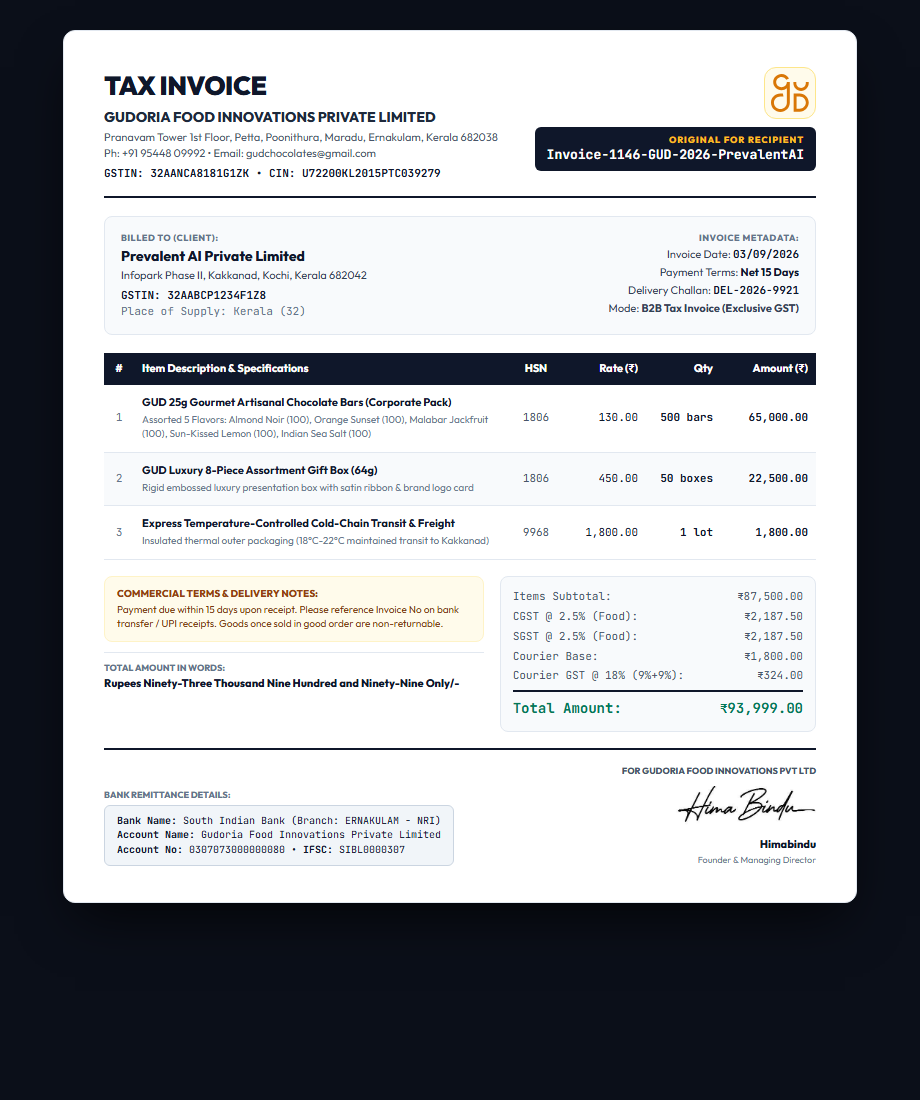
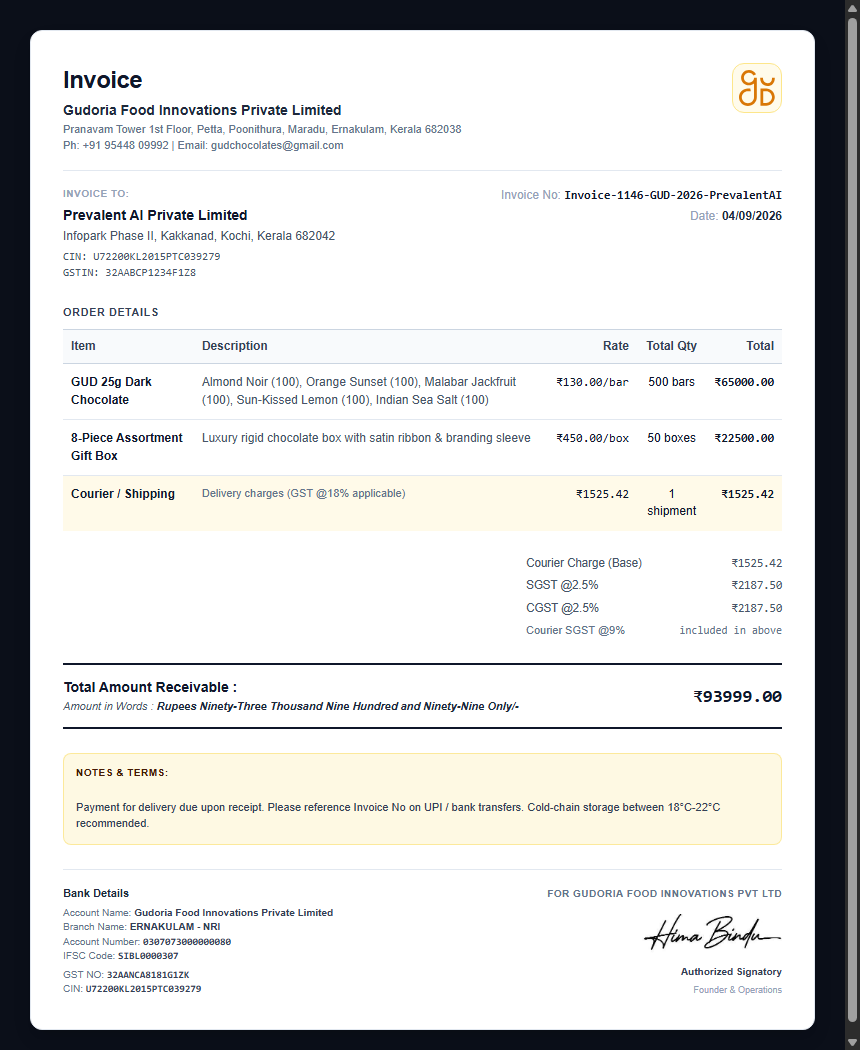
fix: update output_invoice_document to match exact ERP InvoiceGenerator layout

diff --git a/public/screenshots/output_invoice_document.html b/public/screenshots/output_invoice_document.html
@@ -2,10 +2,10 @@
 <html>
 <head>
   <meta charset="utf-8">
-  <title>Tax Invoice Output Document</title>
+  <title>Invoice - Gudoria Food Innovations</title>
   <link rel="preconnect" href="https://fonts.googleapis.com">
   <link rel="preconnect" href="https://fonts.gstatic.com" crossorigin>
-  <link href="https://fonts.googleapis.com/css2?family=Outfit:wght@300;400;500;600;700;800;900&family=JetBrains+Mono:wght@400;600;700&display=swap" rel="stylesheet">
+  <link href="https://fonts.googleapis.com/css2?family=Outfit:wght@300;400;500;600;700;800;900&family=JetBrains+Mono:wght@400;500;600;700&display=swap" rel="stylesheet">
   <style>
     * { box-sizing: border-box; margin: 0; padding: 0; }
     body {
@@ -17,178 +17,158 @@
       align-items: flex-start;
       -webkit-font-smoothing: antialiased;
     }
-    .a4-sheet {
+    .invoice-card {
       width: 794px;
       background: #ffffff;
       color: #0f172a;
-      padding: 36px 40px;
+      padding: 32px;
       border-radius: 12px;
-      box-shadow: 0 25px 50px -12px rgba(0, 0, 0, 0.7);
+      box-shadow: 0 10px 25px -5px rgba(0, 0, 0, 0.1), 0 8px 10px -6px rgba(0, 0, 0, 0.1);
       border: 1px solid #e2e8f0;
       font-size: 12px;
       line-height: 1.45;
     }
-    .mono { font-family: 'JetBrains Mono', monospace; }
+    .font-mono { font-family: 'JetBrains Mono', monospace; }
   </style>
 </head>
 <body>
-  <div class="a4-sheet">
-    
-<div style="display: flex; justify-content: space-between; align-items: flex-start; border-bottom: 2px solid #0f172a; padding-bottom: 14px; margin-bottom: 18px;">
-  <div>
-    <h1 style="font-size: 26px; font-weight: 900; letter-spacing: -0.5px; text-transform: uppercase; color: #0f172a;">Tax Invoice</h1>
-    <div style="font-size: 14px; font-weight: 800; color: #1e293b; margin-top: 2px;">GUDORIA FOOD INNOVATIONS PRIVATE LIMITED</div>
-    <div style="font-size: 11px; color: #475569; margin-top: 3px;">Pranavam Tower 1st Floor, Petta, Poonithura, Maradu, Ernakulam, Kerala 682038</div>
-    <div style="font-size: 11px; color: #475569;">Ph: +91 95448 09992 &bull; Email: gudchocolates@gmail.com</div>
-    <div style="font-size: 11px; font-weight: 700; color: #0f172a; margin-top: 4px;" class="mono">
-      <span>GSTIN: 32AANCA8181G1ZK</span> &bull; <span>CIN: U72200KL2015PTC039279</span>
-    </div>
-  </div>
-  <div style="text-align: right; display: flex; flex-direction: column; align-items: flex-end;">
-    <div style="width: 52px; height: 52px; padding: 6px; background: #fffbeb; border: 1px solid #fde68a; border-radius: 12px; margin-bottom: 8px;">
-      <svg xmlns="http://www.w3.org/2000/svg" viewBox="0 0 671 671" width="100%" height="100%"><g fill="#d97706"><path d="M280.05,143.279c0,50.904 -42.396,92.313 -94.512,92.313c-52.1,-0 -94.496,-41.409 -94.496,-92.313c-0,-50.9 42.396,-92.308 94.496,-92.308c36.075,-0 69.495,20.504 85.158,52.258l47.012,-22.116c-24.287,-49.271 -76.179,-81.113 -132.171,-81.113c-80.883,0 -146.683,64.271 -146.683,143.279c0,79.013 65.8,143.284 146.683,143.284c35.971,-0 68.959,-12.709 94.513,-33.784l-0,253.904c-0,61.371 -51.108,111.305 -113.938,111.305c-62.812,-0 -113.925,-49.934 -113.925,-111.305c0,-61.283 51.042,-111.195 113.75,-111.283l54.409,0l-10.434,-50.975l-44.008,0c-91.479,0.125 -165.904,72.9 -165.904,162.258c-0,89.48 74.512,162.275 166.112,162.275c91.596,0 166.125,-72.795 166.125,-162.275l0,-363.404l-52.187,0Z"/><path d="M613.946,143.283c0.817,5.434 1.546,11.371 1.562,13.105c0,54.67 -33.629,91.408 -83.695,91.408c-49.48,-0 -85.4,-36.683 -85.4,-87.225c-0,-2.95 0.816,-10.763 1.65,-17.292l-51.688,0c-0.625,5.646 -1.267,12.521 -1.267,17.292c0,78.979 58.767,138.546 136.705,138.546c78.245,-0.004 135.016,-60.038 135.016,-142.729c0,-3.575 -0.504,-8.542 -1.058,-13.109l-51.825,0l-0,0.004Z"/><path d="M506.958,615.2l-55.57,0l-0,-219.738l55.57,0c59.292,0 107.555,51.075 108.563,109.88c-1.009,58.783 -49.271,109.858 -108.563,109.858m0,-270.763l-106.875,-0.016l0,321.821l106.875,-0.017c87.571,0 158.875,-73.975 159.863,-160.883c-0.988,-86.913 -72.292,-160.904 -159.863,-160.904"/></g></svg>
-    </div>
-    <div style="background: #0f172a; color: #ffffff; padding: 6px 12px; border-radius: 6px; text-align: right;">
-      <div style="font-size: 9px; font-weight: 800; color: #fbbf24; text-transform: uppercase; letter-spacing: 1px;">ORIGINAL FOR RECIPIENT</div>
-      <div style="font-size: 13px; font-weight: 700;" class="mono">Invoice-1146-GUD-2026-PrevalentAI</div>
-    </div>
-  </div>
-</div>
-
-<div style="display: grid; grid-template-columns: 1fr 1fr; gap: 20px; background: #f8fafc; border: 1px solid #e2e8f0; border-radius: 8px; padding: 14px 16px; margin-bottom: 18px;">
-  <div>
-    <div style="font-size: 9px; font-weight: 800; color: #64748b; text-transform: uppercase; letter-spacing: 0.5px;">BILLED TO (CLIENT):</div>
-    <div style="font-size: 14px; font-weight: 800; color: #0f172a; margin-top: 2px;">Prevalent AI Private Limited</div>
-    <div style="font-size: 11px; color: #334155; margin-top: 2px;">Infopark Phase II, Kakkanad, Kochi, Kerala 682042</div>
-    <div style="font-size: 11px; font-weight: 700; color: #0f172a; margin-top: 4px;" class="mono">GSTIN: 32AABCP1234F1Z8</div>
-    <div style="font-size: 11px; color: #64748b;" class="mono">Place of Supply: Kerala (32)</div>
-  </div>
-  <div style="text-align: right;">
-    <div style="font-size: 9px; font-weight: 800; color: #64748b; text-transform: uppercase; letter-spacing: 0.5px;">INVOICE METADATA:</div>
-    <div style="font-size: 11px; color: #334155; margin-top: 3px;">Invoice Date: <strong class="mono" style="color: #0f172a;">03/09/2026</strong></div>
-    <div style="font-size: 11px; color: #334155; margin-top: 2px;">Payment Terms: <strong style="color: #0f172a;">Net 15 Days</strong></div>
-    <div style="font-size: 11px; color: #334155; margin-top: 2px;">Delivery Challan: <strong class="mono" style="color: #0f172a;">DEL-2026-9921</strong></div>
-    <div style="font-size: 11px; color: #334155; margin-top: 2px;">Mode: <strong>B2B Tax Invoice (Exclusive GST)</strong></div>
-  </div>
-</div>
-
-<table style="width: 100%; border-collapse: collapse; margin-bottom: 16px; font-size: 11px;">
-  <thead>
-    <tr style="background: #0f172a; color: #ffffff;">
-      <th style="padding: 8px; text-align: center; width: 30px;">#</th>
-      <th style="padding: 8px; text-align: left;">Item Description & Specifications</th>
-      <th style="padding: 8px; text-align: center; width: 60px;">HSN</th>
-      <th style="padding: 8px; text-align: right; width: 80px;">Rate (₹)</th>
-      <th style="padding: 8px; text-align: right; width: 75px;">Qty</th>
-      <th style="padding: 8px; text-align: right; width: 95px;">Amount (₹)</th>
-    </tr>
-  </thead>
-  <tbody>
-    <tr style="border-bottom: 1px solid #e2e8f0; background: #ffffff;">
-      <td style="padding: 10px 8px; text-align: center; color: #64748b;" class="mono">1</td>
-      <td style="padding: 10px 8px;">
-        <div style="font-weight: 700; color: #0f172a;">GUD 25g Gourmet Artisanal Chocolate Bars (Corporate Pack)</div>
-        <div style="font-size: 10px; color: #64748b; margin-top: 2px;">
-          Assorted 5 Flavors: Almond Noir (100), Orange Sunset (100), Malabar Jackfruit (100), Sun-Kissed Lemon (100), Indian Sea Salt (100)
+  <div class="invoice-card" id="printable-invoice-container">
+    <!-- Header -->
+    <div style="display: flex; justify-content: space-between; align-items: flex-start; border-bottom: 1px solid #e2e8f0; padding-bottom: 16px; margin-bottom: 16px;">
+      <div>
+        <h1 style="font-size: 24px; font-weight: 700; letter-spacing: -0.5px; color: #0f172a;">Invoice</h1>
+        <p style="color: #1e293b; font-weight: 700; font-size: 14px; margin-top: 2px;">Gudoria Food Innovations Private Limited</p>
+        <p style="color: #64748b; font-size: 11px; margin-top: 2px;">Pranavam Tower 1st Floor, Petta, Poonithura, Maradu, Ernakulam, Kerala 682038</p>
+        <p style="color: #64748b; font-size: 11px;">Ph: +91 95448 09992 | Email: gudchocolates@gmail.com</p>
+      </div>
+      <div style="display: flex; align-items: center; justify-content: flex-end;">
+        <div style="padding: 6px; background-color: #fffbeb; border-radius: 12px; border: 1px solid #fde68a; color: #92400e; display: flex; align-items: center; justify-content: center;">
+          <svg xmlns="http://www.w3.org/2000/svg" viewBox="0 0 671 671" width="36" height="36"><g fill="#d97706"><path d="M280.05,143.279c0,50.904 -42.396,92.313 -94.512,92.313c-52.1,-0 -94.496,-41.409 -94.496,-92.313c-0,-50.9 42.396,-92.308 94.496,-92.308c36.075,-0 69.495,20.504 85.158,52.258l47.012,-22.116c-24.287,-49.271 -76.179,-81.113 -132.171,-81.113c-80.883,0 -146.683,64.271 -146.683,143.279c0,79.013 65.8,143.284 146.683,143.284c35.971,-0 68.959,-12.709 94.513,-33.784l-0,253.904c-0,61.371 -51.108,111.305 -113.938,111.305c-62.812,-0 -113.925,-49.934 -113.925,-111.305c0,-61.283 51.042,-111.195 113.75,-111.283l54.409,0l-10.434,-50.975l-44.008,0c-91.479,0.125 -165.904,72.9 -165.904,162.258c-0,89.48 74.512,162.275 166.112,162.275c91.596,0 166.125,-72.795 166.125,-162.275l0,-363.404l-52.187,0Z"/><path d="M613.946,143.283c0.817,5.434 1.546,11.371 1.562,13.105c0,54.67 -33.629,91.408 -83.695,91.408c-49.48,-0 -85.4,-36.683 -85.4,-87.225c-0,-2.95 0.816,-10.763 1.65,-17.292l-51.688,0c-0.625,5.646 -1.267,12.521 -1.267,17.292c0,78.979 58.767,138.546 136.705,138.546c78.245,-0.004 135.016,-60.038 135.016,-142.729c0,-3.575 -0.504,-8.542 -1.058,-13.109l-51.825,0l-0,0.004Z"/><path d="M506.958,615.2l-55.57,0l-0,-219.738l55.57,0c59.292,0 107.555,51.075 108.563,109.88c-1.009,58.783 -49.271,109.858 -108.563,109.858m0,-270.763l-106.875,-0.016l0,321.821l106.875,-0.017c87.571,0 158.875,-73.975 159.863,-160.883c-0.988,-86.913 -72.292,-160.904 -159.863,-160.904"/></g></svg>
         </div>
-      </td>
-      <td style="padding: 10px 8px; text-align: center; color: #475569;" class="mono">1806</td>
-      <td style="padding: 10px 8px; text-align: right;" class="mono">130.00</td>
-      <td style="padding: 10px 8px; text-align: right; font-weight: 700;" class="mono">500 bars</td>
-      <td style="padding: 10px 8px; text-align: right; font-weight: 700; color: #0f172a;" class="mono">65,000.00</td>
-    </tr>
-    <tr style="border-bottom: 1px solid #e2e8f0; background: #f8fafc;">
-      <td style="padding: 10px 8px; text-align: center; color: #64748b;" class="mono">2</td>
-      <td style="padding: 10px 8px;">
-        <div style="font-weight: 700; color: #0f172a;">GUD Luxury 8-Piece Assortment Gift Box (64g)</div>
-        <div style="font-size: 10px; color: #64748b; margin-top: 2px;">
-          Rigid embossed luxury presentation box with satin ribbon & brand logo card
-        </div>
-      </td>
-      <td style="padding: 10px 8px; text-align: center; color: #475569;" class="mono">1806</td>
-      <td style="padding: 10px 8px; text-align: right;" class="mono">450.00</td>
-      <td style="padding: 10px 8px; text-align: right; font-weight: 700;" class="mono">50 boxes</td>
-      <td style="padding: 10px 8px; text-align: right; font-weight: 700; color: #0f172a;" class="mono">22,500.00</td>
-    </tr>
-    <tr style="border-bottom: 1px solid #e2e8f0; background: #ffffff;">
-      <td style="padding: 10px 8px; text-align: center; color: #64748b;" class="mono">3</td>
-      <td style="padding: 10px 8px;">
-        <div style="font-weight: 700; color: #0f172a;">Express Temperature-Controlled Cold-Chain Transit & Freight</div>
-        <div style="font-size: 10px; color: #64748b; margin-top: 2px;">
-          Insulated thermal outer packaging (18°C-22°C maintained transit to Kakkanad)
-        </div>
-      </td>
-      <td style="padding: 10px 8px; text-align: center; color: #475569;" class="mono">9968</td>
-      <td style="padding: 10px 8px; text-align: right;" class="mono">1,800.00</td>
-      <td style="padding: 10px 8px; text-align: right; font-weight: 700;" class="mono">1 lot</td>
-      <td style="padding: 10px 8px; text-align: right; font-weight: 700; color: #0f172a;" class="mono">1,800.00</td>
-    </tr>
-  </tbody>
-</table>
-
-<div style="display: grid; grid-template-columns: 1.2fr 1fr; gap: 16px; margin-bottom: 16px;">
-  <div>
-    <div style="background: #fffbeb; border: 1px solid #fef3c7; border-radius: 8px; padding: 10px 12px; margin-bottom: 10px;">
-      <div style="font-size: 10px; font-weight: 800; color: #92400e; text-transform: uppercase;">Commercial Terms & Delivery Notes:</div>
-      <div style="font-size: 10px; color: #78350f; margin-top: 2px; line-height: 1.4;">
-        Payment due within 15 days upon receipt. Please reference Invoice No on bank transfer / UPI receipts. Goods once sold in good order are non-returnable.
       </div>
     </div>
-    <div style="border-top: 1px solid #e2e8f0; padding-top: 8px;">
-      <div style="font-size: 9px; font-weight: 800; color: #64748b; text-transform: uppercase;">TOTAL AMOUNT IN WORDS:</div>
-      <div style="font-size: 11px; font-weight: 800; color: #0f172a; margin-top: 2px;">
-        Rupees Ninety-Three Thousand Nine Hundred and Ninety-Nine Only/-
+
+    <!-- Client & Metadata -->
+    <div style="display: grid; grid-template-columns: 1fr 1fr; gap: 16px; margin-bottom: 24px;">
+      <div>
+        <div style="color: #94a3b8; font-weight: 600; text-transform: uppercase; font-size: 10px; letter-spacing: 0.5px; margin-bottom: 4px;">Invoice To:</div>
+        <div style="font-weight: 700; color: #0f172a; font-size: 14px;">Prevalent AI Private Limited</div>
+        <div style="color: #475569; margin-top: 2px; white-space: pre-line;">Infopark Phase II, Kakkanad, Kochi, Kerala 682042</div>
+        <div style="color: #475569; font-size: 11px; margin-top: 4px;" class="font-mono">CIN: U72200KL2015PTC039279</div>
+        <div style="color: #475569; font-size: 11px;" class="font-mono">GSTIN: 32AABCP1234F1Z8</div>
+      </div>
+      <div style="text-align: right; display: flex; flex-direction: column; gap: 4px;">
+        <div>
+          <span style="color: #94a3b8; font-weight: 500;">Invoice No: </span>
+          <span style="font-weight: 700; color: #0f172a;" class="font-mono">Invoice-1146-GUD-2026-PrevalentAI</span>
+        </div>
+        <div>
+          <span style="color: #94a3b8; font-weight: 500;">Date: </span>
+          <span style="font-weight: 600; color: #1e293b;">04/09/2026</span>
+        </div>
       </div>
     </div>
-  </div>
 
-  <div style="background: #f8fafc; border: 1px solid #e2e8f0; border-radius: 8px; padding: 12px; font-size: 11px;" class="mono">
-    <div style="display: flex; justify-content: space-between; color: #475569; margin-bottom: 4px;">
-      <span>Items Subtotal:</span>
-      <span>₹87,500.00</span>
+    <!-- Table -->
+    <div style="margin-bottom: 24px;">
+      <div style="color: #334155; font-weight: 700; text-transform: uppercase; font-size: 11px; margin-bottom: 8px; letter-spacing: 0.5px;">Order Details</div>
+      <table style="width: 100%; text-align: left; border-collapse: collapse; font-size: 12px;">
+        <thead>
+          <tr style="border-top: 1px solid #cbd5e1; border-bottom: 1px solid #cbd5e1; background-color: #f8fafc; color: #334155; font-weight: 700;">
+            <th style="padding: 8px;">Item</th>
+            <th style="padding: 8px;">Description</th>
+            <th style="padding: 8px; text-align: right;">Rate</th>
+            <th style="padding: 8px; text-align: center;">Total Qty</th>
+            <th style="padding: 8px; text-align: right;">Total</th>
+          </tr>
+        </thead>
+        <tbody>
+          <tr style="border-bottom: 1px solid #e2e8f0; vertical-align: top;">
+            <td style="padding: 10px 8px; font-weight: 600; color: #0f172a;">GUD 25g Dark Chocolate</td>
+            <td style="padding: 10px 8px; color: #475569; white-space: pre-line;">Almond Noir (100), Orange Sunset (100), Malabar Jackfruit (100), Sun-Kissed Lemon (100), Indian Sea Salt (100)</td>
+            <td style="padding: 10px 8px; text-align: right;" class="font-mono">₹130.00/bar</td>
+            <td style="padding: 10px 8px; text-align: center; font-weight: 500;">500 bars</td>
+            <td style="padding: 10px 8px; text-align: right; font-weight: 700;" class="font-mono">₹65000.00</td>
+          </tr>
+          <tr style="border-bottom: 1px solid #e2e8f0; vertical-align: top;">
+            <td style="padding: 10px 8px; font-weight: 600; color: #0f172a;">8-Piece Assortment Gift Box</td>
+            <td style="padding: 10px 8px; color: #475569; white-space: pre-line;">Luxury rigid chocolate box with satin ribbon & branding sleeve</td>
+            <td style="padding: 10px 8px; text-align: right;" class="font-mono">₹450.00/box</td>
+            <td style="padding: 10px 8px; text-align: center; font-weight: 500;">50 boxes</td>
+            <td style="padding: 10px 8px; text-align: right; font-weight: 700;" class="font-mono">₹22500.00</td>
+          </tr>
+          <tr style="background-color: rgba(254, 243, 199, 0.4); vertical-align: top;">
+            <td style="padding: 10px 8px; font-weight: 600; color: #0f172a;">Courier / Shipping</td>
+            <td style="padding: 10px 8px; color: #64748b; font-size: 11px;">Delivery charges (GST @18% applicable)</td>
+            <td style="padding: 10px 8px; text-align: right;" class="font-mono">₹1525.42</td>
+            <td style="padding: 10px 8px; text-align: center; font-weight: 500;">1 shipment</td>
+            <td style="padding: 10px 8px; text-align: right; font-weight: 700;" class="font-mono">₹1525.42</td>
+          </tr>
+        </tbody>
+      </table>
     </div>
-    <div style="display: flex; justify-content: space-between; color: #475569; margin-bottom: 4px;">
-      <span>CGST @ 2.5% (Food):</span>
-      <span>₹2,187.50</span>
-    </div>
-    <div style="display: flex; justify-content: space-between; color: #475569; margin-bottom: 4px;">
-      <span>SGST @ 2.5% (Food):</span>
-      <span>₹2,187.50</span>
-    </div>
-    <div style="display: flex; justify-content: space-between; color: #475569; margin-bottom: 4px;">
-      <span>Courier Base:</span>
-      <span>₹1,800.00</span>
-    </div>
-    <div style="display: flex; justify-content: space-between; color: #475569; margin-bottom: 6px;">
-      <span>Courier GST @ 18% (9%+9%):</span>
-      <span>₹324.00</span>
-    </div>
-    <div style="display: flex; justify-content: space-between; border-top: 2px solid #0f172a; padding-top: 6px; font-size: 14px; font-weight: 800; color: #047857;">
-      <span>Total Amount:</span>
-      <span>₹93,999.00</span>
-    </div>
-  </div>
-</div>
 
-<div style="display: flex; justify-content: space-between; align-items: flex-end; border-top: 2px solid #0f172a; padding-top: 14px;">
-  <div>
-    <div style="font-size: 9px; font-weight: 800; color: #64748b; text-transform: uppercase;">BANK REMITTANCE DETAILS:</div>
-    <div style="background: #f1f5f9; border: 1px solid #cbd5e1; border-radius: 6px; padding: 8px 12px; margin-top: 4px; font-size: 10px;" class="mono">
-      <div><strong>Bank Name:</strong> South Indian Bank (Branch: ERNAKULAM - NRI)</div>
-      <div><strong>Account Name:</strong> Gudoria Food Innovations Private Limited</div>
-      <div><strong>Account No:</strong> 0307073000000080 &bull; <strong>IFSC:</strong> SIBL0000307</div>
+    <!-- Tax & Summary -->
+    <div style="display: flex; justify-content: flex-end; margin-bottom: 24px;">
+      <div style="width: 256px; display: flex; flex-direction: column; gap: 6px; text-align: right; font-weight: 500; font-size: 11.5px;">
+        <div style="display: flex; justify-content: space-between; color: #475569;">
+          <span>Courier Charge (Base)</span>
+          <span class="font-mono">₹1525.42</span>
+        </div>
+        <div style="display: flex; justify-content: space-between; color: #475569;">
+          <span>SGST @2.5%</span>
+          <span class="font-mono">₹2187.50</span>
+        </div>
+        <div style="display: flex; justify-content: space-between; color: #475569;">
+          <span>CGST @2.5%</span>
+          <span class="font-mono">₹2187.50</span>
+        </div>
+        <div style="display: flex; justify-content: space-between; color: #64748b; font-size: 11px;">
+          <span>Courier SGST @9%</span>
+          <span class="font-mono">included in above</span>
+        </div>
+      </div>
     </div>
-  </div>
-  <div style="text-align: right;">
-    <div style="font-size: 9px; font-weight: 800; color: #475569; text-transform: uppercase;">FOR GUDORIA FOOD INNOVATIONS PVT LTD</div>
-    <div style="margin: 4px 0;">
[1 lines of base64/hex data omitted]
-    </div>
-    <div style="font-size: 11px; font-weight: 800; color: #0f172a;">Himabindu</div>
-    <div style="font-size: 9px; color: #64748b;">Founder & Managing Director</div>
-  </div>
-</div>
 
+    <!-- Total Amount Receivable -->
+    <div style="border-top: 2px solid #0f172a; border-bottom: 2px solid #0f172a; padding: 12px 0; margin-bottom: 24px; display: flex; justify-content: space-between; align-items: center;">
+      <div>
+        <div style="color: #0f172a; font-weight: 700; font-size: 14px;">Total Amount Receivable :</div>
+        <div style="color: #475569; font-size: 11px; font-style: italic; margin-top: 2px;">
+          Amount in Words : <span style="font-weight: 600; color: #1e293b;">Rupees Ninety-Three Thousand Nine Hundred and Ninety-Nine Only/-</span>
+        </div>
+      </div>
+      <div style="text-align: right;">
+        <span style="font-size: 18px; font-weight: 800; color: #0f172a;" class="font-mono">₹93999.00</span>
+      </div>
+    </div>
+
+    <!-- Invoice Notes / Payment Terms Block -->
+    <div style="margin-bottom: 24px; padding: 12px; border-radius: 8px; background-color: rgba(254, 243, 199, 0.5); border: 1px solid rgba(253, 230, 138, 0.8); font-size: 11px;">
+      <div style="font-weight: 700; color: #451a03; text-transform: uppercase; font-size: 10px; letter-spacing: 0.5px; margin-bottom: 2px;">Notes & Terms:</div>
+      <div style="color: #334155; white-space: pre-line; line-height: 1.5; font-weight: 500;">
+        Payment for delivery due upon receipt. Please reference Invoice No on UPI / bank transfers. Cold-chain storage between 18°C-22°C recommended.
+      </div>
+    </div>
+
+    <!-- Bank Details Footer -->
+    <div style="display: grid; grid-template-columns: 1fr 1fr; gap: 16px; border-top: 1px solid #e2e8f0; padding-top: 16px; font-size: 10px; color: #64748b;">
+      <div>
+        <div style="font-weight: 700; color: #1e293b; font-size: 11px; margin-bottom: 4px;">Bank Details</div>
+        <div>Account Name: <span style="font-weight: 600; color: #334155;">Gudoria Food Innovations Private Limited</span></div>
+        <div>Branch Name: <span style="font-weight: 600; color: #334155;">ERNAKULAM - NRI</span></div>
+        <div>Account Number: <span style="font-weight: 600; color: #334155;" class="font-mono">0307073000000080</span></div>
+        <div>IFSC Code: <span style="font-weight: 600; color: #334155;" class="font-mono">SIBL0000307</span></div>
+        <div style="margin-top: 4px;">GST NO: <span style="font-weight: 600; color: #334155;" class="font-mono">32AANCA8181G1ZK</span></div>
+        <div>CIN: <span style="font-weight: 600; color: #334155;" class="font-mono">U72200KL2015PTC039279</span></div>
+      </div>
+      <div style="text-align: right; display: flex; flex-direction: column; align-items: flex-end; justify-content: flex-end; gap: 4px;">
+        <div style="font-size: 10px; color: #64748b; font-weight: 700; text-transform: uppercase; letter-spacing: 0.5px;">For Gudoria Food Innovations Pvt Ltd</div>
[1 lines of base64/hex data omitted]
+        <div style="font-size: 10px; font-weight: 600; color: #334155;">Authorized Signatory</div>
+        <div style="font-size: 9px; color: #94a3b8;">Founder & Operations</div>
+      </div>
+    </div>
   </div>
 </body>
 </html>
